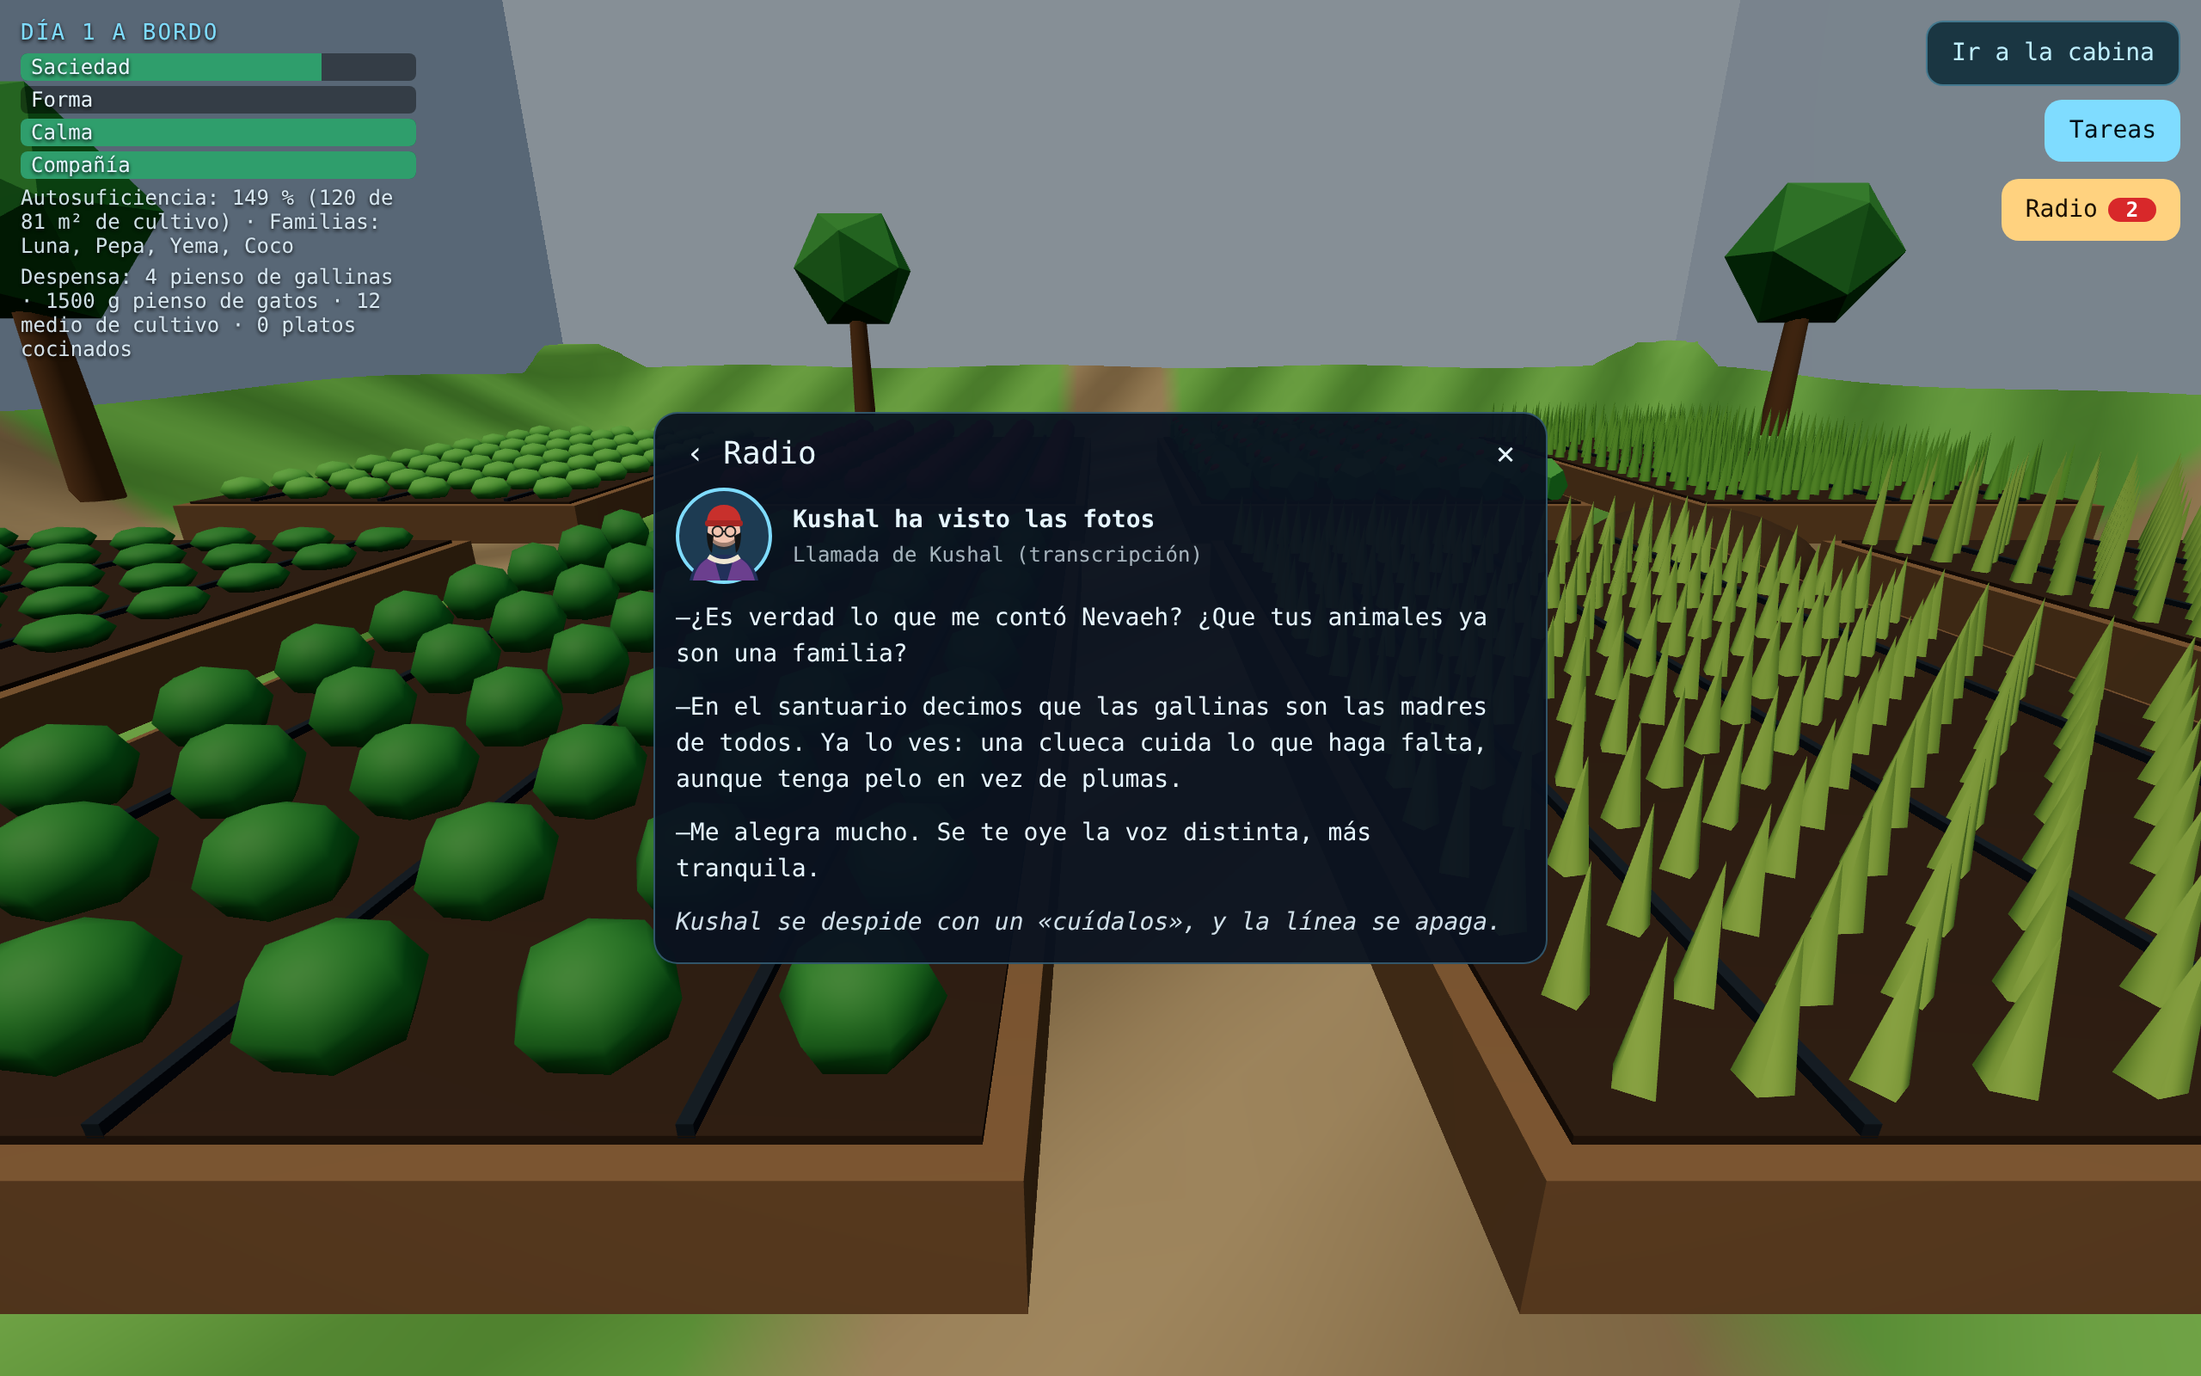
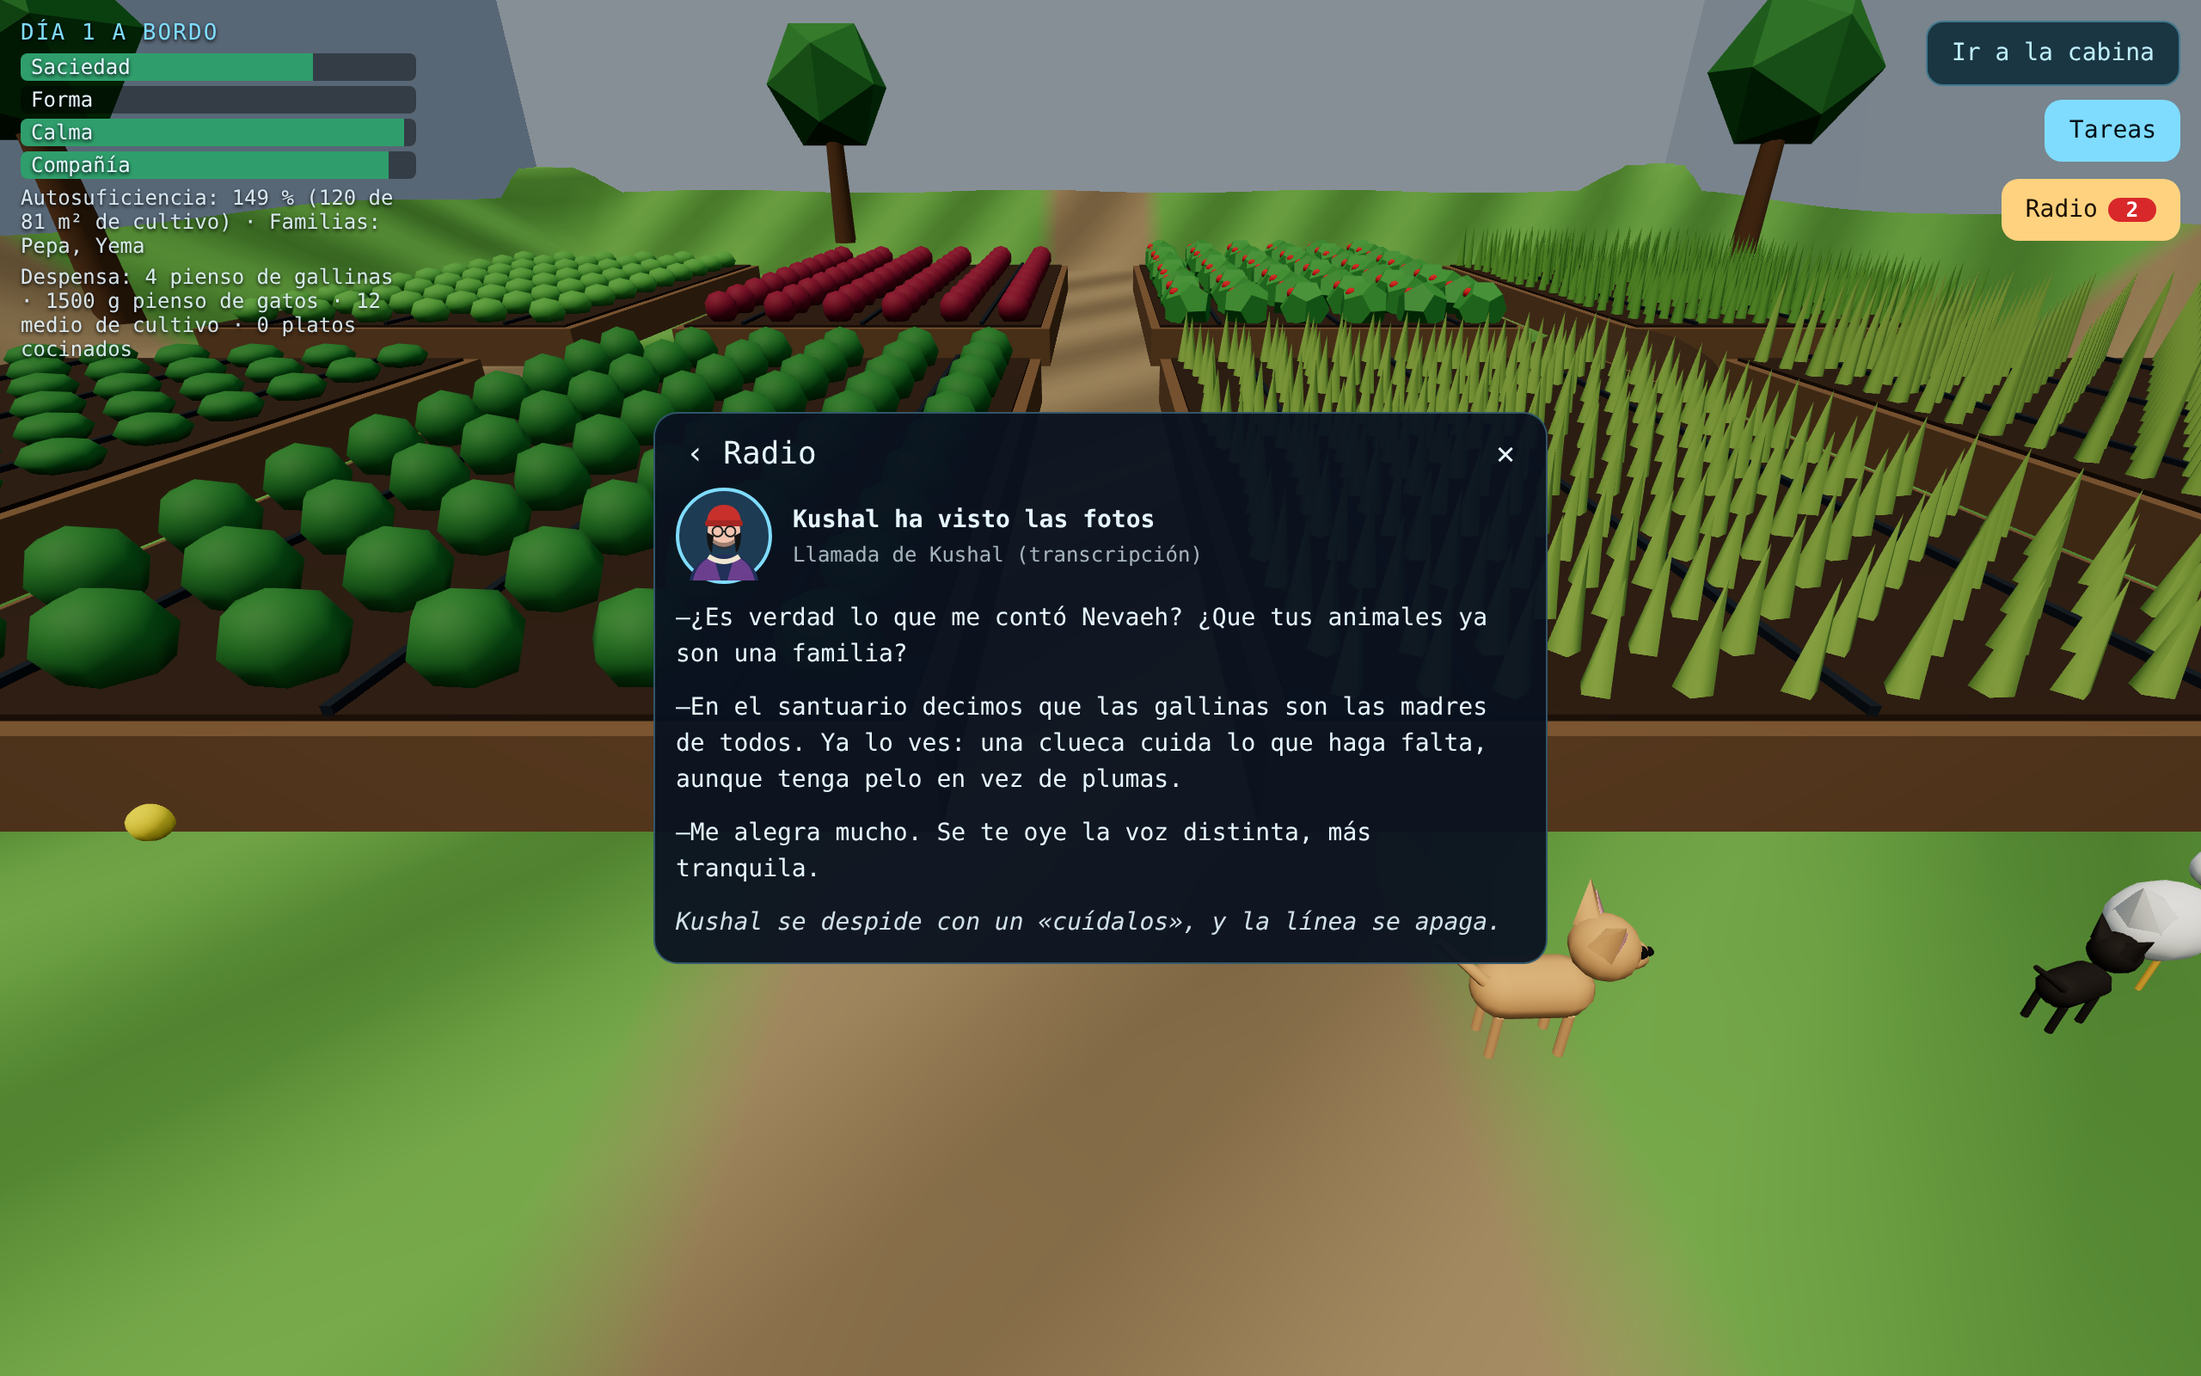
Familias: lecciones de gallinas para crías, capturas, documentación y preview
Claude-Session: https://claude.ai/code/session_013f2k3BKu3GvWho9ZkdeNDk

diff --git a/src/modules/pets/data/family-lessons.ts b/src/modules/pets/data/family-lessons.ts
@@ -235,11 +235,31 @@ export const HEN_RESPECT_PLANTS = lesson({
   specify: { question: "¿Qué orden salva los plantones?", options: ["No comas nunca", "Cuando veas una planta nueva, no escarbes alrededor y busca bichos en el compost", "Cuando veas una planta nueva, picotéala poco"], correct: 1 },
 });
 
-/** A broody hen accepts chicks that are not hers when they are placed under her calmly. */
+/** A hen given young that are not hers may peck at them (SARE FNE08-645): first, leave them be. */
+export const HEN_RESPECT_YOUNG = lesson({
+  id: "gallina-no-picotear-crias",
+  species: "gallina",
+  level: 1,
+  when: "cria",
+  then: "ignorar",
+  event: ["cuando vea una cría", "on('cria', (cria) => {"],
+  body: [
+    ["no picotearla", "evitar(cria, 'picotear');"],
+    ["seguir escarbando a su lado", "escarbar(cerca(cria));"],
+  ],
+  ideas: ["¿Qué es esa bola de pelo?", "¿La picoteo?", "Dime cómo tratarla"],
+  predict: { question: "La gallina tiene estrés 0,9. ¿Qué hará al ver al cachorro?", code: STRESS_CHECK, options: ["Sigue la regla y no lo picotea", "Sigue su instinto y puede picotearlo", "Lo cobija"], correct: 1 },
+  specify: { question: "¿Qué orden protege a la cría?", options: ["Cuando veas una cría, no la picotees y sigue escarbando a su lado", "Cuando veas una cría, picotéala suave", "Cuando veas una cría, huye"], correct: 0 },
+});
+
+/**
+ * Level 2 for a broody hen: a broody hen accepts chicks that are not hers when they are placed
+ * under her calmly; here she takes a kitten or a puppy.
+ */
 export const HEN_BROOD = lesson({
   id: "gallina-cobijar-crias",
   species: "gallina",
-  level: 1,
+  level: 2,
   when: "cria",
   then: "cobijar",
   broodyOnly: true,
@@ -262,7 +282,7 @@ export const HEN_BROOD = lesson({
   specify: { question: "¿Qué orden convierte a la clueca en madre?", options: ["Cuando veas una cría, picotéala", "Cuando una cría tenga frío, llámala cloqueando y cobíjala bajo tus alas", "Cuando veas una cría, sal corriendo"], correct: 1 },
 });
 
-export const FAMILY_LESSONS: readonly AnimalLesson[] = [CAT_HENS_FAMILY, CAT_DOG, CAT_YOUNG, DOG_RESPECT_HENS, DOG_HENS_FAMILY, DOG_CATS, DOG_YOUNG, HEN_RESPECT_PLANTS, HEN_BROOD];
+export const FAMILY_LESSONS: readonly AnimalLesson[] = [CAT_HENS_FAMILY, CAT_DOG, CAT_YOUNG, DOG_RESPECT_HENS, DOG_HENS_FAMILY, DOG_CATS, DOG_YOUNG, HEN_RESPECT_PLANTS, HEN_RESPECT_YOUNG, HEN_BROOD];
 
 /** Every lesson for every animal on board. */
 export const ANIMAL_LESSONS: readonly AnimalLesson[] = [...CAT_LESSONS, ...FAMILY_LESSONS];

diff --git a/src/modules/habitat/application/habitat.ts b/src/modules/habitat/application/habitat.ts
@@ -551,7 +551,8 @@ export class Habitat {
 
   /**
    * Lessons that make sense now. Level 1 rules that stop a problem appear once the problem showed
-   * up; warm rules once the animals have met; level 2 (family) on top of the level-1 rule.
+   * up; warm rules once the animals have met; level 2 (family) on top of the level-1 rule when the
+   * animal ever caused that problem.
    */
   private lessonChores(lessons: readonly AnimalLesson[]): Chore[] {
     const out: Chore[] = [];
@@ -562,9 +563,11 @@ export class Habitat {
         if (l.broodyOnly && !(a as Hen).broody) continue;
         const current = a.rules.find((r) => r.when === l.rule.when);
         const level = l.level ?? 1;
-        if (current?.id === l.rule.id || levelOf(current?.id) >= level || levelOf(current?.id) < level - 1) continue;
-        const warm = WARM_ACTIONS.has(l.rule.then);
         const problem = this._seen.get(a.id)?.get(l.rule.when);
+        if (current?.id === l.rule.id || levelOf(current?.id) >= level) continue;
+        // A family rule goes on top of the rule that solved a problem, if there ever was one.
+        if (levelOf(current?.id) < level - 1 && problem) continue;
+        const warm = WARM_ACTIONS.has(l.rule.then);
         const met = this._met.get(a.id)?.get(l.rule.when) ?? problem;
         if (!warm && problem) out.push(lessonChore(a, l, `${problem}: escríbele una regla`));
         else if (warm && met) out.push(lessonChore(a, l, `${met}: prográmalo para hacer familia`));

diff --git a/src/modules/habitat/application/habitat.test.ts b/src/modules/habitat/application/habitat.test.ts
@@ -19,7 +19,7 @@ import { RESPECT_HENS } from "@modules/pets/data/rules";
 import { Mailbox } from "@modules/story/domain/mailbox";
 import { NEVAEH_LETTERS } from "@modules/story/data/nevaeh";
 import { Dog } from "@modules/pets/domain/dog";
-import { ANIMAL_LESSONS, DOG_HENS_FAMILY, DOG_RESPECT_HENS, HEN_BROOD } from "@modules/pets/data/family-lessons";
+import { ANIMAL_LESSONS, DOG_HENS_FAMILY, DOG_RESPECT_HENS, HEN_BROOD, HEN_RESPECT_YOUNG } from "@modules/pets/data/family-lessons";
 import { STORY } from "@modules/story/data/nevaeh";
 import { LETTUCE_OUTREDGEOUS as LETTUCE, SOYBEAN_HOYT } from "@modules/garden/data/species";
 import { Habitat, type ChoreSession, type Conversation, type HabitatEvent } from "./habitat";
@@ -424,8 +424,12 @@ describe("Habitat chores (everything is a code challenge)", () => {
         h.hensFree = true;
         h.addHen(new Hen("yema", "Yema", true));
         h.addDog(new Dog("pepa", "Pepa", 0.9, "cachorro"));
-        care(h, 1);
-        if (adopt) program(h, "yema", HEN_BROOD.rule.id);
+        care(h, 2);
+        if (adopt) {
+          program(h, "yema", HEN_RESPECT_YOUNG.rule.id);
+          care(h, 1);
+          program(h, "yema", HEN_BROOD.rule.id);
+        }
         const ev = care(h, 20);
         return { h, ev };
       };

diff --git a/docs/design/vida-a-bordo.md b/docs/design/vida-a-bordo.md
@@ -243,7 +243,91 @@ Decisión de Berón (2026-11-12): se rescata la historia del borrador. **Doméni
 
 Las misiones repiten la mecánica del borrador: **ordenar las piezas** `let`, nombre, `=` y valor. Se hacen en el panel de la mente de la nave. Las posdatas siguen el arco del borrador: los seres queridos de Doménica escriben preocupados, el fallo de comunicaciones se investiga y al final «alguien estaba detrás». La carta nueva lo continúa.
 
-El retrato original de Nevaeh se perdió; por ahora se muestra un retrato provisional dibujado con SVG.
+El retrato original de Nevaeh se perdió (el borrador apuntaba a `/img/nevaeh/face_100px.webp`). Ahora se dibuja a partir de su hoja de diseño de Cold Sanctuary; ver más abajo.
+
+## Familias de gallinas, gatos y chihuahuas
+
+Decisión de Berón (2026-11-12): las gallinas pueden vivir libres, suben a bordo chihuahuas, y el jugador programa un entorno amable para que gallinas, gatos y perros formen **familias**. Eso le da a Doménica, que pasará años en el espacio sin hablar con su familia, un gran bienestar mental.
+
+**Lo real en que se apoya:**
+
+- **Adopción entre especies.** Hay casos documentados: una gata crió patitos nacidos junto a su camada, y una perra crió un cachorro de leopardo. El reconocimiento materno depende de la oxitocina y se aprende, por eso los criadores recurren a la adopción cruzada ([WCVM, Universidad de Saskatchewan](https://wcvmtoday.usask.ca/scicomm/family-or-foe-how-prey-and-predator-animals-can-develop-mother-child-bonds.php)).
+- **Gallinas cluecas.** Aceptan pollitos ajenos si se los ponen de noche y en calma. En un ensayo, 3 de 4 grupos fueron aceptados; en el que falló, la gallina los picoteó o los ignoró ([SARE FNE08-645](https://projects.sare.org/project-reports/fne08-645/)).
+- **Compañía animal.** La interacción con animales baja el cortisol, la frecuencia cardiaca y la presión arterial, y mejora el ánimo ([Beetz et al. 2012](https://pmc.ncbi.nlm.nih.gov/articles/PMC3408111/)).
+
+**Que una gallina adopte un cachorro o un gatito es una licencia del juego.** Solo hay vídeos y anécdotas, no estudios.
+
+**Cómo funciona** (`modules/family`, `pets/data/family-lessons.ts`):
+
+1. **Gallinas libres.** El jugador programa la puerta automática del gallinero: abre al amanecer y cierra al anochecer, pero solo si están todas dentro. Las gallinas libres se calman antes, pero escarban los plantones hasta que se les programa «buscar bichos en el compost».
+2. **Encuentros.** Cada animal reacciona a los demás según su instinto o según su programa:
+   - El perro persigue a las gallinas y le ladra al gato.
+   - El gato bufa al perro y acecha a las gallinas.
+   - Las gallinas picotean a las crías ajenas.
+3. **Lecciones en dos niveles.**
+   - **Nivel 1** aparece cuando surge el problema: no perseguir, no picotear.
+   - **Nivel 2** es la regla de familia, que se escribe encima de la de nivel 1: tumbarse junto a la gallina, o cobijar a la cría bajo las alas (solo una clueca).
+   - Hay también reglas de amistad sin problema previo: el gato espera a que el perro se calme y lo saluda; el perro invita a jugar con la reverencia de juego.
+4. **Lazos.** Cada encuentro cálido sube el lazo si el otro está tranquilo. Cuidar a una cría lo sube el doble, y así se adopta. Un encuentro hostil lo baja.
+   - Con un lazo de 0,7 o más, dos animales de especies distintas son familia.
+   - La familia crece por miembros compartidos.
+   - Un animal no ataca a su familia, sea cual sea su instinto.
+   - En 3D, las crías siguen a quien las adoptó.
+5. **Doménica.** Su soledad crece cada día lejos de su familia, y las comidas y el yoga no la tocan. Las familias de animales la bajan, y el HUD lo muestra en la barra «Compañía». Cuando se forma la primera familia, Kushal la llama.
+
+**Chihuahuas** (`pets/domain/dog.ts`):
+
+- Coco, adulto de 2,4 kg, y Pepa, cachorra de 0,9 kg. El estándar de la raza dice que un chihuahua no debe pasar de 6 lb, unos 2,7 kg ([Chihuahua Club of America](https://www.chihuahuaclubofamerica.org/thechihuahua/breedstandard)).
+- Energía: RER × 1,6 para un adulto castrado y × 3 para un cachorro de menos de 4 meses ([Pet Nutrition Alliance](https://petnutritionalliance.org/wp-content/uploads/2023/03/MER.RER_.PNA_.pdf)). Coco necesita unas 223 kcal al día.
+- A diferencia de los gatos, los perros aprovechan los almidones cocidos y la proteína vegetal ([Merck](https://www.merckvetmanual.com/management-and-nutrition/nutrition-small-animals/nutritional-requirements-of-small-animals)). Comen carne cultivada o, si no hay, huevos (72 kcal por huevo grande, USDA).
+- Van a la enfermería como cualquier otro paciente.
+
+## La cubierta de cultivo: un viaje autosuficiente
+
+La nave es grande. Detrás del módulo habitable, una puerta da a una **cubierta de cultivo** de 18 × 18 m:
+
+- suelo artificial con colinas suaves y árboles frutales;
+- un cielo de LED;
+- ocho bancales de 15 m² con riego por goteo, que no hay que regar a mano;
+- el compost de las gallinas;
+- el rincón de los chihuahuas.
+
+**¿Cuánto hace falta?** Wheeler et al. (2021), en su revisión de la investigación de la NASA, estiman 40–50 m² de cultivo con luz intensa para dar las calorías de una persona. Esa misma superficie hace todo su O2 y retira su CO2 ([Frontiers](https://www.frontiersin.org/journals/astronomy-and-space-sciences/articles/10.3389/fspas.2021.734343/full)).
+
+**El cálculo del juego** (`life-support/domain/sustainability.ts`):
+
+- Toma 45 m² por persona y lo escala con la energía de cada comensal:
+  - Doménica: ecuación de la NASA para mujeres, unas 2.280 kcal con ejercicio ([JSC-67378](https://ntrs.nasa.gov/api/citations/20205008306/downloads/JSC67378%20Expl%20Nutr%20Reqs%20042020.pdf));
+  - cada gallina: 110 g de pienso a unas 2,9 kcal/g;
+  - gatos y perros: su RER × factor.
+- Es una **cota inferior**, porque alimentar animales a partir de cultivos pierde energía por el camino.
+- Hoy a bordo hacen falta unos 81 m². Los bastidores (4,5 m²) dan un 5 %. Con los bancales hay 124 m², un 150 %, con margen para malas cosechas y futuros tripulantes.
+- El HUD muestra la autosuficiencia en todo momento.
+
+## Historia: Doménica, Nevaeh y Kushal
+
+Canon de Berón (2026-11-12):
+
+- Doménica tenía en la Tierra una situación difícil que la obligó a huir.
+- Llegó a Cold Sanctuary con su grupo de amigos. Ahí le contó sus problemas a **Nevaeh, la Magnate del santuario**, y Nevaeh le habló de ir al espacio. Doménica aceptó sin dudarlo.
+- Pasará años en el espacio sin hablar con su familia.
+- Su amigo **Kushal** la llama a veces por la línea del santuario. Más amigos del grupo se irán incorporando.
+
+En el juego (`story/data/friends.ts`):
+
+- La primera carta, «Antes de que empieces», es Nevaeh recordando esa noche. Los detalles de lo que hizo huir a Doménica quedan sin escribir a propósito.
+- Las llamadas de Kushal llegan por la radio como transcripción. Una llega el día 2 y otra cuando se forma la primera familia.
+
+**Retratos** (`src/ui/portraits.ts`): dibujados con SVG a partir de las hojas de diseño descritas en `docs/diseno-personajes.md` de Cold Sanctuary. Las imágenes de esas hojas no están en ninguno de los dos repositorios.
+
+- **Nevaeh:** bob azul noche con flequillo recto, labios morados, cuello alto blanco, bolero morado y corsé granate con ribete dorado.
+- **Kushal:** gorro de lana rojo, gafas redondas, barba de unos días y chaleco morado con cuello de borrego.
+- **Doménica:** aún no tiene hoja de diseño.
+
+**Próximo:** la nano_net.
+
+- Las misiones de Nevaeh serán vuelos al núcleo que falla, que se arregla con un reto de código.
+- Un asteroide subyugado puede convertirse en **núcleo** de la red. Al programarlo, aprende a generar nodos, moverlos, conectarlos para cubrir un área y unirse a otra red.
 
 ## Qué hay implementado
 
@@ -267,6 +351,10 @@ El retrato original de Nevaeh se perdió; por ahora se muestra un retrato provis
 | Panel de la mente de la nave y reparación por retos | `chores/application/catalog.ts`, `src/interior.ts` | ✓ (cambiar piezas: pendiente) |
 | Interior 3D: caminar, huerto, cocina, molino, laboratorio, enfermería, panel, esterilla, gatos, gallinero | `src/interior.ts`, `src/adapters/three/interior/` | ✓ |
 | Cartas de Nevaeh a Doménica con misiones | `modules/story`, radio en `src/interior.ts` | ✓ con tests |
+| Gallinas libres, chihuahuas, lazos y familias entre especies | `modules/family`, `pets/domain/dog.ts`, `pets/data/family-lessons.ts` | ✓ con tests |
+| Cubierta de cultivo y autosuficiencia | `life-support/domain/sustainability.ts`, `src/adapters/three/interior/farm-deck.ts` | ✓ con tests |
+| Prólogo de Nevaeh, llamadas de Kushal y retratos | `story/data/friends.ts`, `src/ui/portraits.ts` | ✓ con tests |
+| nano_net: núcleos hechos de asteroides | — | siguiente PR |
 | Viaje automático programado entre asteroides | — | pendiente |
 
 Los números de cuidado sin fuente (velocidad de secado, ritmo de juego y de cariño, probabilidad de mordisco, días por etapa) están marcados en el código como **ajuste de juego**. Así se distinguen de los datos reales.

diff --git a/README.md b/README.md
@@ -4,6 +4,10 @@ Juego web de pilotaje espacial realista. El jugador vuela en primera persona has
 
 Esta es la versión 2, rehecha desde cero con Three.js y TypeScript. El borrador anterior (React 17) sigue en las ramas `develop`, `top_nav` y `recuperar-onedrive`.
 
+**Preview jugable:** https://catravcul.github.io/CodeShip/ (rama `gh-pages`; se publica con `npx vite build --base=./` y se sube la carpeta compilada a esa rama).
+
+A bordo, Doménica cuida un huerto, una cubierta de cultivo que hace el viaje autosuficiente, gatos, chihuahuas y gallinas libres que pueden llegar a ser una familia, y recibe por radio las cartas de Nevaeh y las llamadas de Kushal. Todo se hace con retos de código. Diseño en [docs/design/vida-a-bordo.md](docs/design/vida-a-bordo.md).
+
 ## Arrancar
 
 ```bash
